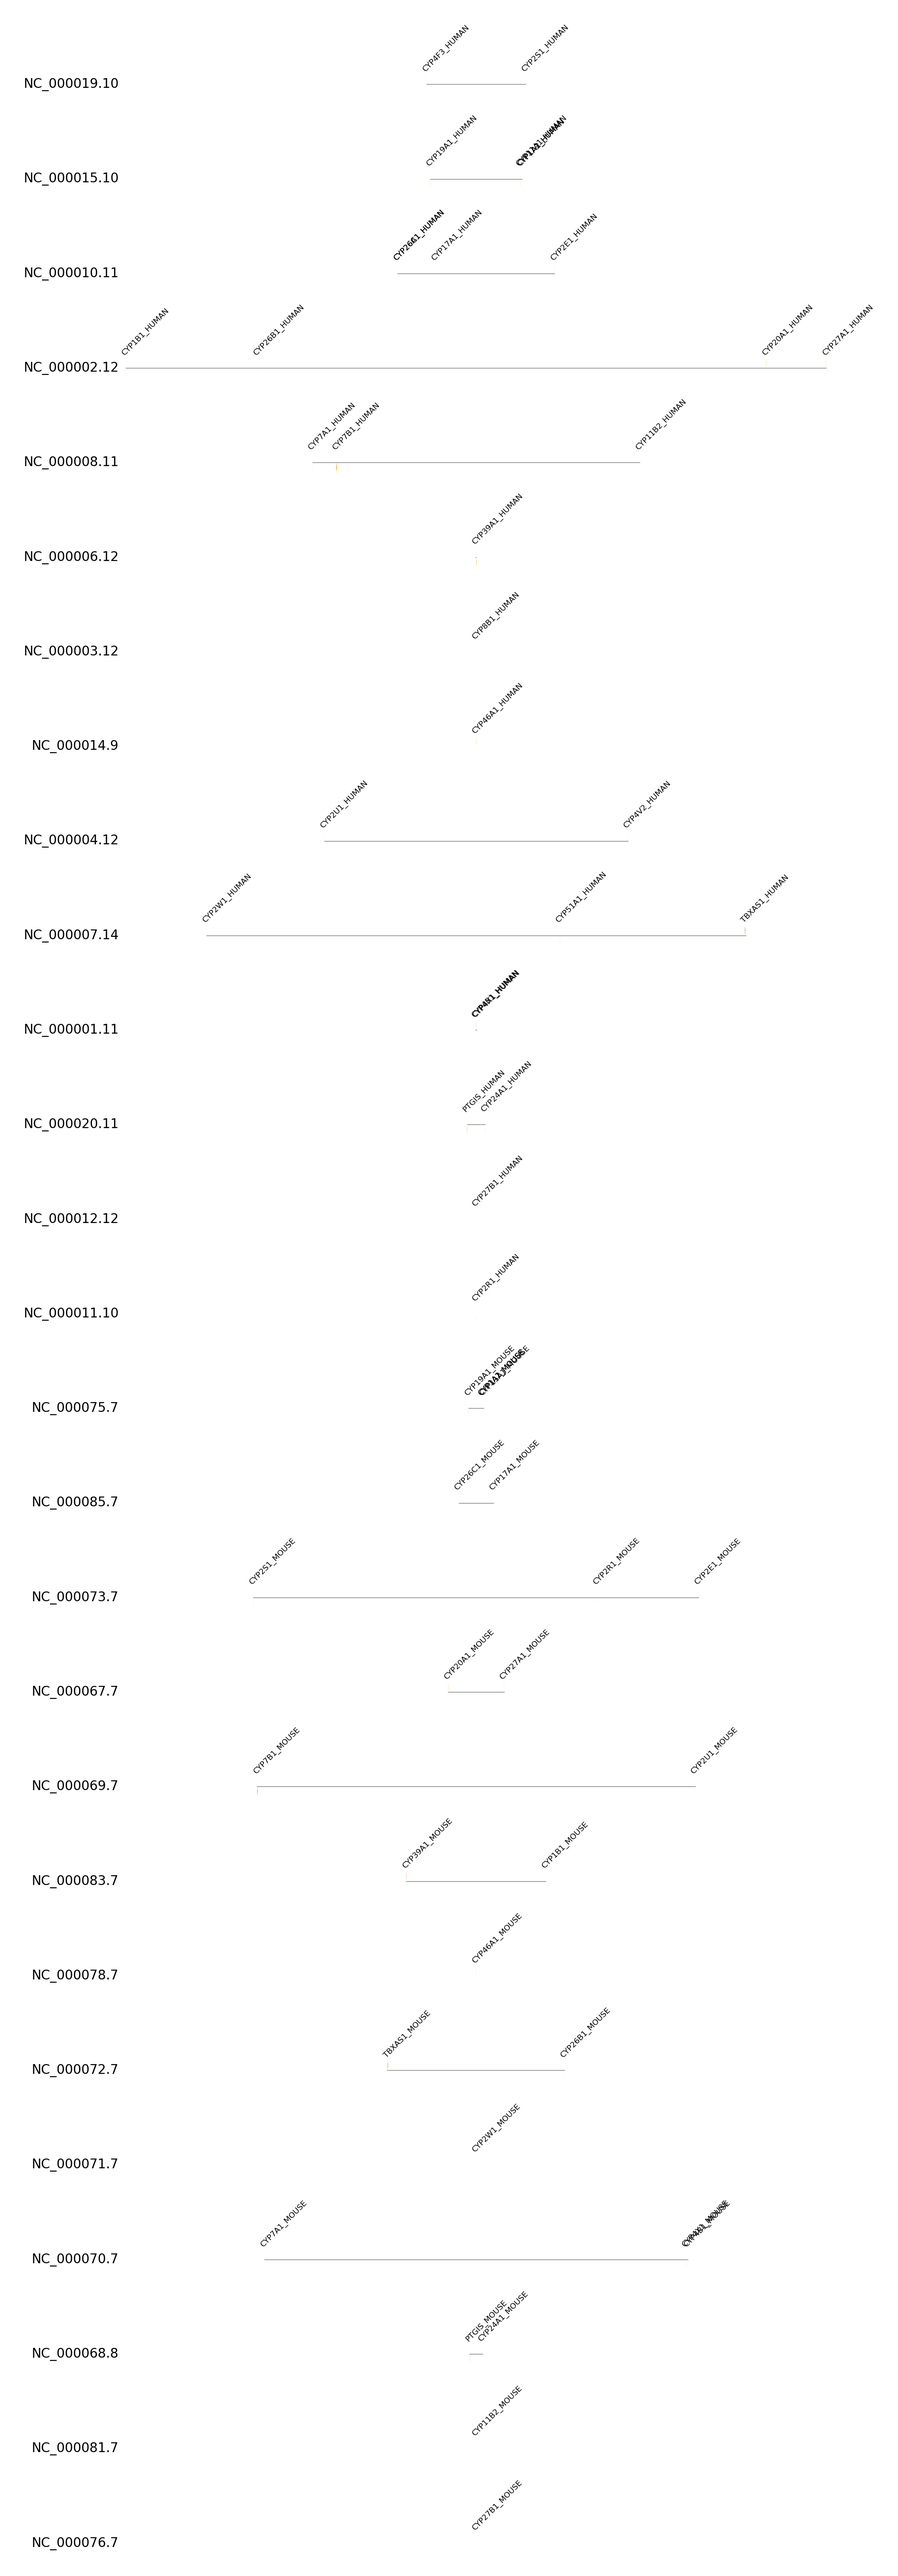
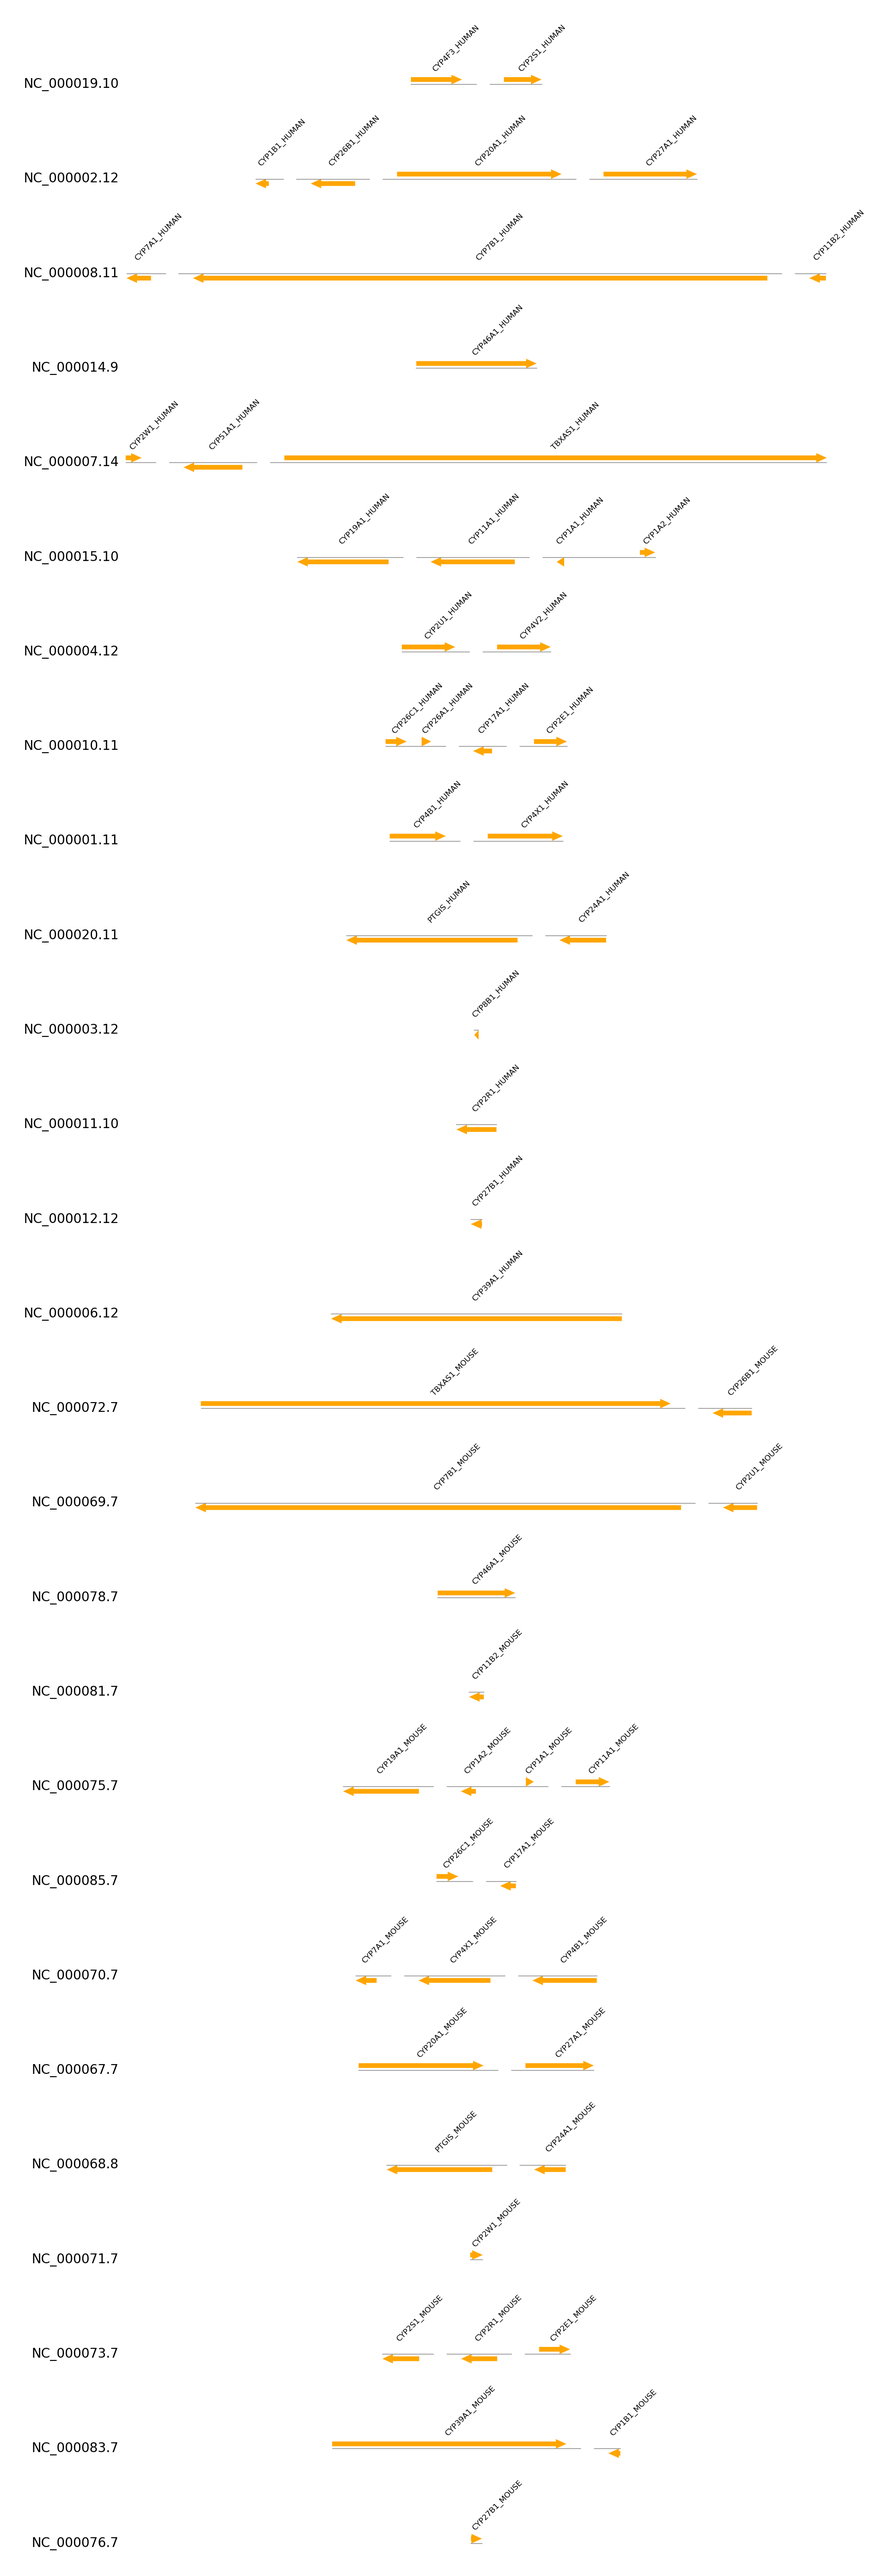
Fix the displaying of the synteny plot, gene ranges are now bigger, but sizing is messed up, maybe ranges are too different, probably thousands to 10s of thousands

diff --git a/src/create_synteny_plot.py b/src/create_synteny_plot.py
@@ -6,6 +6,39 @@ import argparse
 import pandas as pd
 
 
+def coordinates2segments(starts: list, stops: list):
+    starts.sort()
+    stops.sort()
+
+    segments = list()
+    next_segment_start = starts[0]
+    for i, stop in enumerate(stops):
+        # check whether all are processed
+        if i+1 == len(stops):
+            # add last segment
+            segments.append((next_segment_start, stop))
+
+            # end loop, all found
+            break
+
+        # get second coordinate
+        start_next = starts[i+1]
+
+        # check whether distance is higher than 60000, otherwise split into segments, avg length gene 62.000
+        if start_next - stop > 60000:
+            # create new segment
+            new_segment = (next_segment_start, stop + 5000)
+            segments.append(new_segment)
+
+            # save next segment start for next new segment
+            next_segment_start = start_next - 5000
+
+    if not segments:
+        segments.append((starts[0], stops[0]))
+
+    return segments
+
+
 def extract_collected_info(orgs: [str], superf: str):
     # convert organism path to df
     dfs = []
@@ -70,16 +103,30 @@ def extract_collected_info(orgs: [str], superf: str):
                     start=start, stop=stop
                 )]
 
+        # divide starts and stops of the genes into segments -> otherwise region is way too big
+        for sequence_region in sequence_region_list:
+            starts = list()
+            stops = list()
+            for i, _ in enumerate(sequence_region_list[sequence_region]["features"]):
+                starts.append(sequence_region_list[sequence_region]["features"][i]["start"])
+                stops.append(sequence_region_list[sequence_region]["features"][i]["stop"])
+
+            # process starts and stops into segments
+            segments = coordinates2segments(starts, stops)
+            sequence_region_list[sequence_region]["segments"] = segments
+
+        # sort features by coordinates
+        for attributes in sequence_region_list.values():
+            attributes["features"] = sorted(attributes["features"], key=lambda x: x["start"])
+
     return sequence_region_list
 
 
 def create_plot(sequence_region_list: dict):
     gv = GenomeViz(track_align_type="center")
 
-    print(sequence_region_list)
-
     for sequence_region, attributes in sequence_region_list.items():
-        track = gv.add_feature_track(sequence_region, (attributes["start"], attributes["stop"]))
+        track = gv.add_feature_track(sequence_region, segments=attributes["segments"])
 
         for feature in attributes["features"]:
             if feature["strand"] == "+":
@@ -87,7 +134,11 @@ def create_plot(sequence_region_list: dict):
             else:
                 strand = -1
 
-            track.add_feature(feature["start"], feature["stop"], strand, label=feature["name"])
+            # go through segments and add to according segment
+            for segment in track.segments:
+                if segment.start <= feature["start"] <= segment.start + segment.size:
+                    segment.add_feature(feature["start"], feature["stop"], strand, label=feature["name"])
+                    break
 
     gv.savefig("test_plot.png")
 
